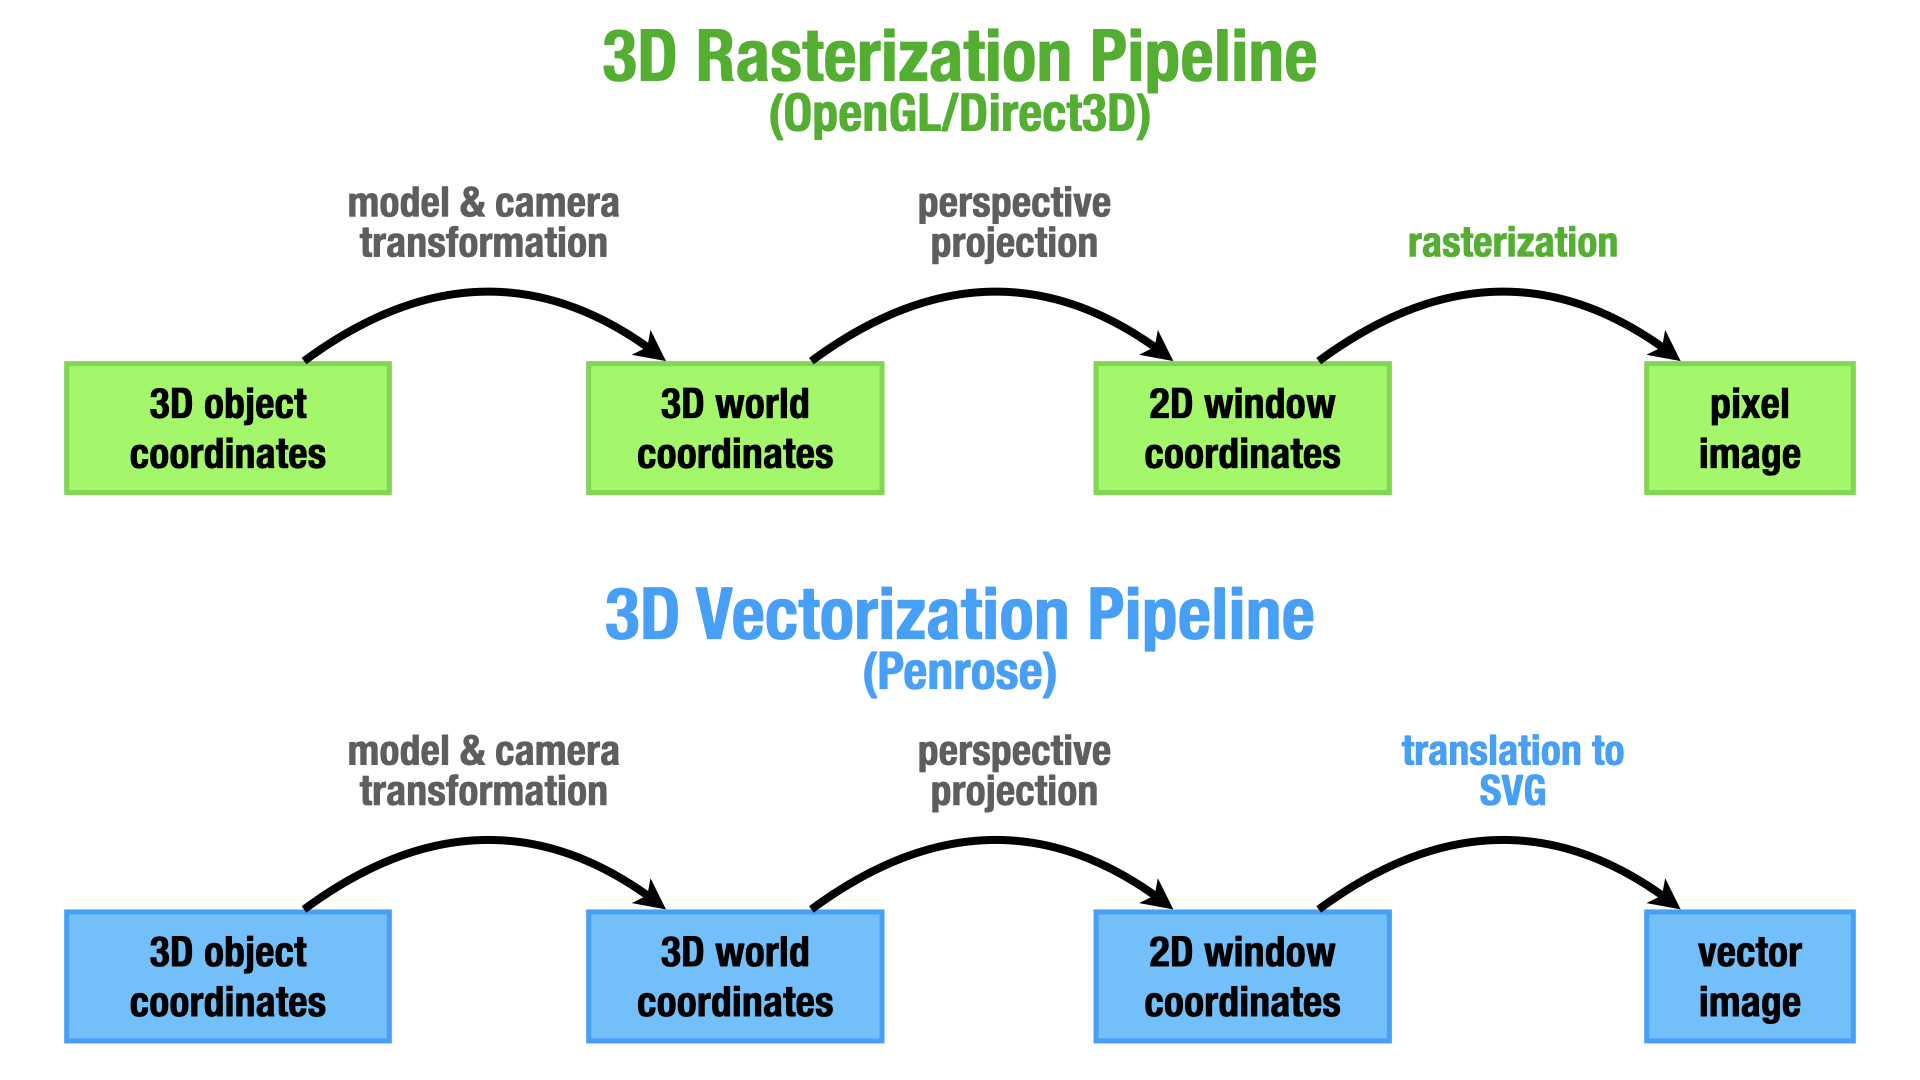
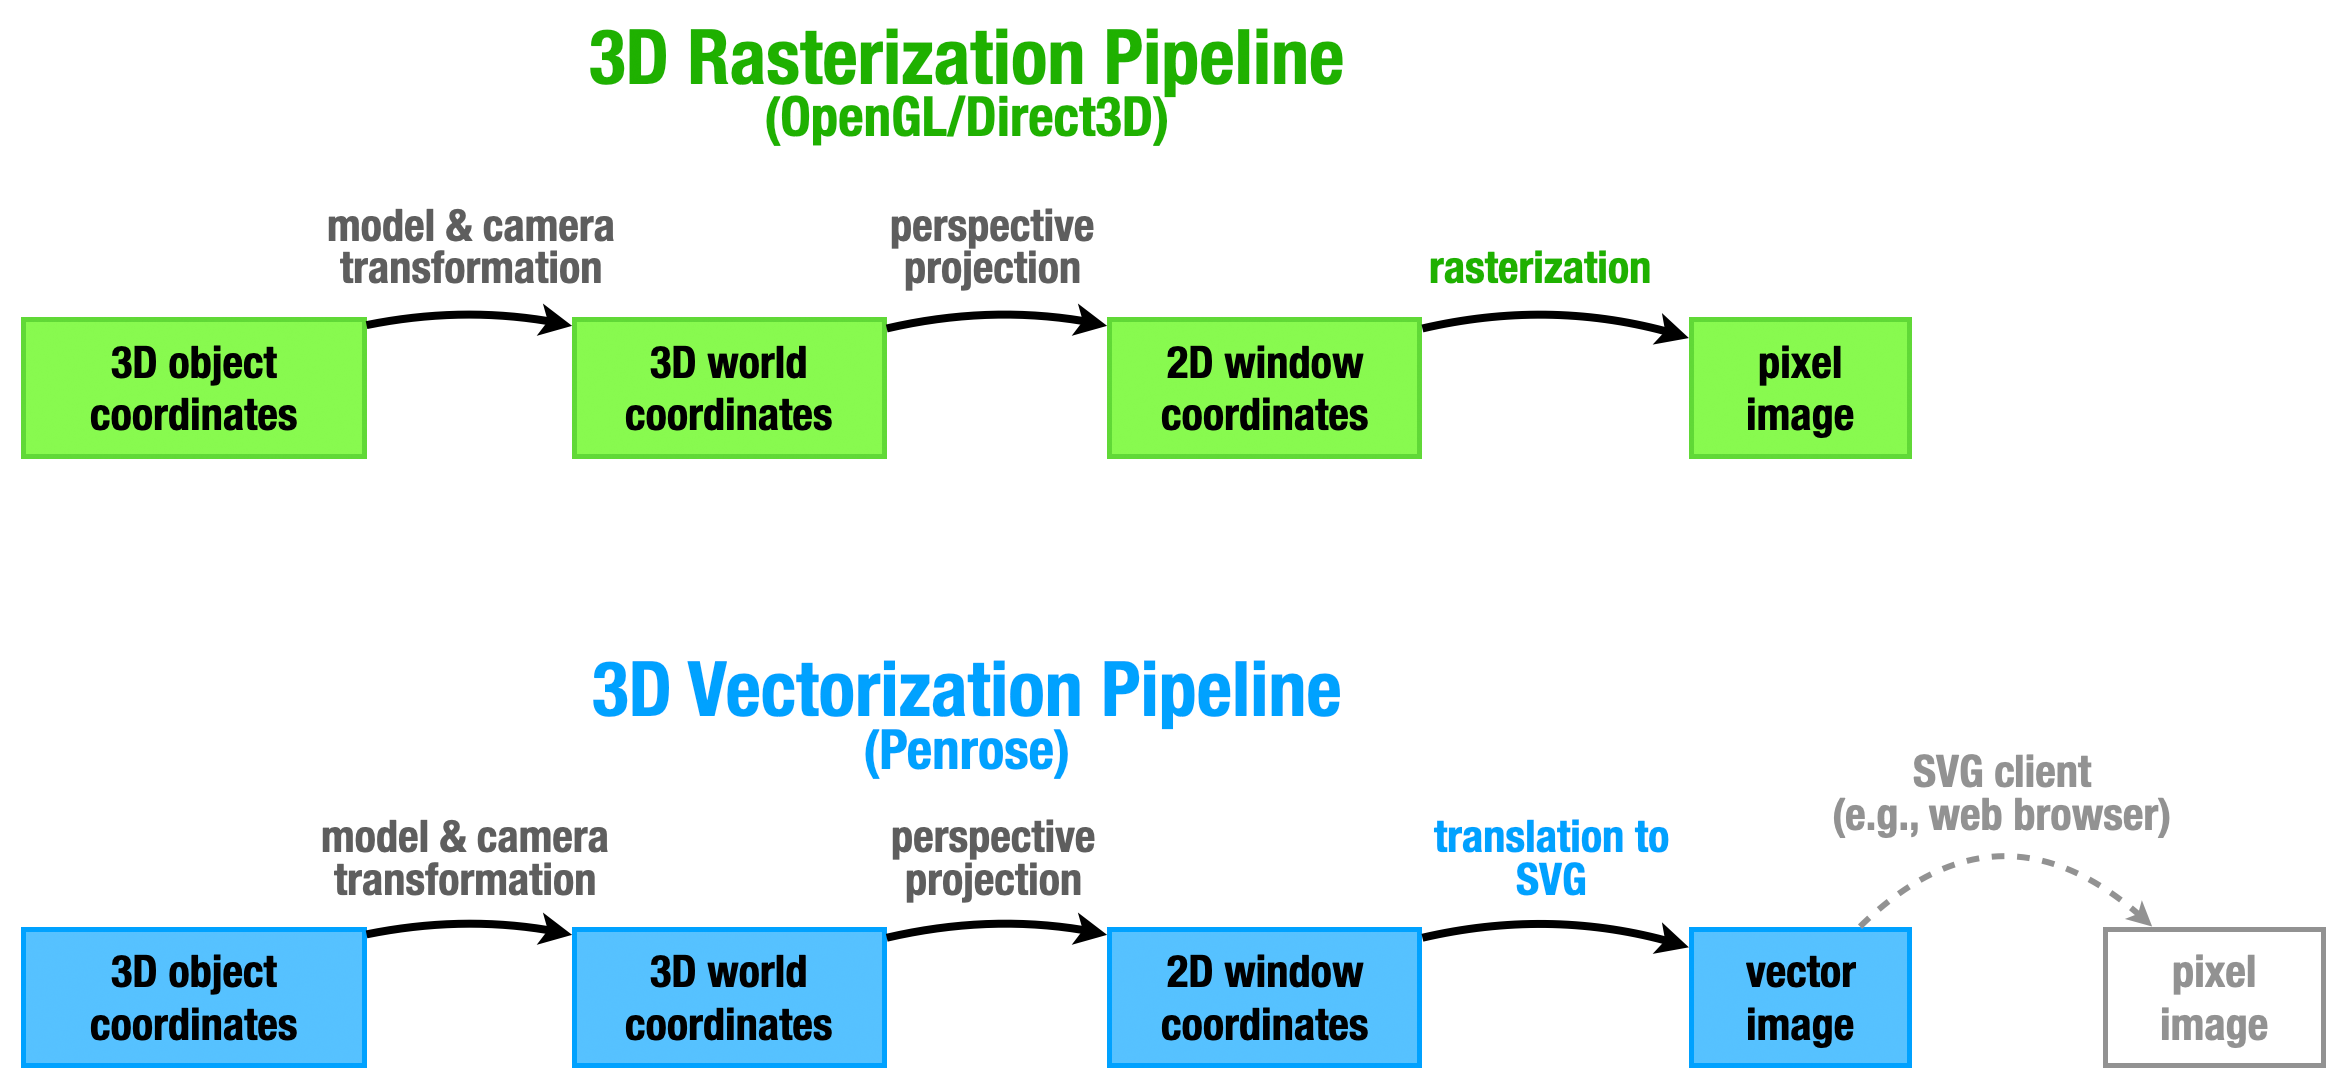
More work on dinoshade & its README

diff --git a/packages/examples/src/dinoshade/README.md b/packages/examples/src/dinoshade/README.md
@@ -2,17 +2,18 @@
 
 ![Shadowy Leapin' Lizards!](dinoshade.png)
 
-This example shows how rich 3D graphics including lighting, shadows, reflections, and perspective projection can be turned into 2D vector diagrams using Penrose, using familiar concepts from standard 3D graphics APIs (such as OpenGL and Direct3D).  The example reimagines the [`dinoshade` OpenGL/GLUT C++ example](http://sgifiles.irixnet.org/sgi/opengl/contrib/mjk/tips/dinoshade.c), originally written by Mark Kilgard at SGI.  If you've never written 3D graphics code before, you may want to start with one of the [many terrific OpenGL tutorials](https://www.reddit.com/r/opengl/comments/5dbzp0/how_to_best_learn_opengl_in_20162017/) available online—while Penrose does a lot of things automatically, you do need to still know how to "think in 3D!"  If you do have prior experience with 3D graphics APIs, you should feel quite at home with this example.
+This exploratory example shows how rich 3D graphics including lighting, shadows, reflections, and perspective projection can be rendered as 2D vector art via Penrose, using familiar concepts from standard 3D graphics APIs (such as OpenGL and Direct3D).  Penrose was not originally built for 3D—but as the system evolves it becomes easier and easier to pull off some very cool and useful techniques!  This particular example reimagines the [`dinoshade` OpenGL/GLUT C++ example](http://sgifiles.irixnet.org/sgi/opengl/contrib/mjk/tips/dinoshade.c), originally written by Mark Kilgard at SGI.  This README is written mainly for folks to cross the bridge from 3D graphics APIs into Penrose/Style—if you've never written 3D graphics code before, you may want to start with one of the [many terrific tutorials](https://www.reddit.com/r/opengl/comments/5dbzp0/how_to_best_learn_opengl_in_20162017/) available online.
 
 ## Overview - The Vectorization Pipeline
 
 ![Rasterization vs. Vectorization Pipeline](pipeline.png)
 
-The output for this example is shown above: a dinosaur standing on a plane, with soft shadows and a blurry reflection; lighting and shadows are determined by a point light source (which from this view is off screen).  Construction of this example follows a pattern similar to the [real time graphics pipeline](https://en.wikipedia.org/wiki/Graphics_pipeline): the camera is defined via modelview and projection matrices, a list of 3D points is used to describe the scene geometry, and the camera matrices are used to transform these 3D points into 2D coordinates on the canvas.  The key difference, as illustrated in the diagram above, is that in the final stage projected primitives (such as triangles and line segments) are translated into vector graphics primitives, rather than rasterized to final pixel values.  In particular, they are translated into a [standard vector graphics (SVG) file](https://en.wikipedia.org/wiki/SVG), which is a human-readable file format for describing 2D graphics.  An SVG file can then be displayed by a variety of applications such as web browsers (Chrome, Safari, etc.), or specialized vector graphics editors (Inkscape, Adobe Illustrator, etc.).  These programs in effect complete the final stage of image generation, by rasterizing 2D shapes in the SVG file to pixel values that can be displayed by a hardware device.  However, deferring this final rasterization stage has a variety of benefits:
+The output for this example is shown at top: a dinosaur standing on a plane, with soft shadows and a blurry reflection; lighting and shadows are determined by a point light source (which from this view is off screen).  Construction of this example follows a pattern similar to the [real time graphics pipeline](https://en.wikipedia.org/wiki/Graphics_pipeline): the camera is defined via modelview and projection matrices, a list of 3D points is used to describe the scene geometry, and the camera matrices are used to transform these 3D points into 2D coordinates on the canvas.  The key difference, as illustrated in the diagram above, is that in the final stage projected primitives (such as triangles and line segments) are translated into vector graphics primitives, rather than rasterized to final pixel values.  In particular, they are translated into a [standard vector graphics (SVG) file](https://en.wikipedia.org/wiki/SVG), which is a human-readable file format for describing 2D graphics.  An SVG file can then be displayed by a variety of applications such as web browsers (Chrome, Safari, etc.), or specialized vector graphics editors (Inkscape, Adobe Illustrator, etc.).  These programs in effect complete the final stage of image generation, by rasterizing 2D shapes in the SVG file to pixel values that can be displayed by a hardware device.  However, deferring this final rasterization stage has a variety of benefits:
 
 - **Retargetability.**  Since the output of the 3D vectorization pipeline does not assume any definite size for the final rasterized image, graphics can be re-used on a variety of different devices, or in different contexts (e.g., full-screen vs. embedded in a document) without losing fidelity.  In other words, the output representation is "resolution-independent."
 - **File Size.** In many cases, a vectorized image is much smaller than a rasterized version, since the former stores a more minimal specification of the image (e.g., just the three corner locations of a triangles, rather than the many thousands of pixel values needed to fill in the same triangle).  E.g., the SVG and PNG versions of the `dinoshade` image above differ in file size by about 5x.
 - **Editability.** Unlike raster images, which can be edited only at the level of individual pixels, vectorized 3D graphics easily admit higher-level semantic edits such as "change the color of the dinosaur from green to blue" or "make the wireframe thinner" (or remove it altogether).  Moreover, such alterations can be made programmatically and automatically without needing access to the original runtime environment (e.g., OpenGL or Direct3D).
+- **Rich Functionality.** A lot of functionality that's hard to pull off in standard 3D APIs (like high-quality line drawing, dashed lines, and image-space filtering) are already built in to SVG/CSS, and can often be triggered by one or two simple commands (like the CSS blur used here to achieve glossy reflections).
 
 ## The Dinoshade Example
 
@@ -106,7 +107,11 @@ global {
 }
 ```
 
-Notice here that we often only need to declare _what needs to be drawn_ rather than _how to draw it_.  For instance, to draw the text we need only say what text we want, what font/color we want, and where on the canvas it should go.  We don't need to say _when_ the text gets drawn (i.e., we don't need to think about execution order, as in the usual [imperative programming](https://en.wikipedia.org/wiki/Imperative_programming) model of OpenGL/Direct3D), and generally avoid a lot of the crufty function calls needed to [draw text](https://users.cs.jmu.edu/bernstdh/web/common/lectures/summary_opengl-text.php) in a traditional 3D graphics API.  We just need to give the bare minimum specification.
+At this point our scene looks like this:
+
+![Ground plane and label text](global-data.png)
+
+Notice that unlike a traditional 3D graphics API, we only had to declare _what needs to be drawn_; we did not have to spell out the procedural steps of _how to draw it_.  For instance, to draw the text we simply stated what string we want to use, what font/color we want, and where on the canvas it should go.  We didn't need to say _when_ the text gets drawn (i.e., we don't need to think about execution order, as in the usual [imperative programming](https://en.wikipedia.org/wiki/Imperative_programming) model of OpenGL/Direct3D), and avoided the arcane sequence of function calls needed to [draw text](https://users.cs.jmu.edu/bernstdh/web/common/lectures/summary_opengl-text.php) in OpenGL.  Intsead, we just gave the bare minimum information needed to specify the label.
 
 The most important line in the snippet above is the one that transforms a list of 3D points into a list of 2D points that can be used to draw 2D shapes.  In general, the pattern we'll use is
 
@@ -160,7 +165,9 @@ forall Dinosaur G {
 
 > **Transformation Order.** An important comment here about transformation order: APIs like OpenGL follow a "last transformation first" rule.  For instance, if we write `glTranslate(a,b,c); glRotate(theta,1,0,0);` we get a rotation by `theta` around the x-axis, followed by a translation by the vector (`a`,`b`,`c`).  You'll notice that in our Style code we instead use a special keyword `then`, which composes transformations in the same order one would expect from natural language.  For instance, if I say _"I turned around and then walked out the door,"_ the order of operations is unambiguous: first a rotation, then a translation.  Likewise, the expression `A then B` describes a transformation first by the matrix `A`, then by the matrix `B`.  Of course, the Style language also permits ordinary matrix multiplication—e.g., the same transformation could be applied using the matrix `B*A`, since then any matrix-vector multiply `B*A*x` will first apply `A`, then apply `B`.
 
-Once we have the projected 2D coordinates, we need to actually drawn the final polygons.  Unlike OpenGL, we do _not_ need to tessellate these polygons into triangles: Style/Penrose (and SVG) can directly handle `n`-gons with any number of sides.  For each polygon we do a simple lighting calculation, and also use the orientation of the projected polygon to determine back face culling, or really "back face fading": if the orientation is positive, we draw the polygon as usual; if the orientation is negative, we draw it using an alpha value of 0.2.  This way we get a nice effect where the edges of the back-facing polygons are slightly visible through the front-facing polygons, giving a nice sense of volume:
+![Comparison of no culling, full culling, and partial culling](culling.png)
+
+Once we have the projected 2D coordinates, we need to actually draw the final polygons.  Unlike OpenGL, we do _not_ need to tessellate these polygons into triangles: Style/Penrose (and SVG) can directly handle `n`-gons with any number of sides.  For each polygon we do a simple lighting calculation, and also use the orientation of the projected polygon to determine backface culling, or really "back face fading": if the orientation is positive, we draw the polygon as usual; if the orientation is negative, we draw it using an alpha value of 0.2.  This way we get a nice effect where the edges of the back-facing polygons are slightly visible through the front-facing polygons, giving a nice sense of volume (see example images above).  Here we perform an explicit calculation inline, but in future language versions it might be nice to provide a convenience attribute `cullBackface: true|false`:
 
 ```haskell
    -- compute the color for the first polygon
@@ -226,6 +233,10 @@ where R := Reflection(G) {
 }
 ```
 
+With the reflection added, our scene now looks like this:
+
+![Dinosaur with reflection](reflection.png)
+
 Similarly, the shadow is drawn by geometrically projecting the vertices of the mesh from the light source to the ground plane.
 
 ```haskell
@@ -269,5 +280,11 @@ where S := Shadow(G) {
 }
 ```
 
-TODO: talk about depth sorting
+Showing just the shadow (and not the reflection), our scene now looks like this:
+
+![Dinosaur with shadow](shadow.png)
+
+The full scene, with both shadows and reflections, is shown at the very top.
+
+> **Depth Sorting.** At present, Style provides no mechanism for depth buffering or sorting.  Part of the limitation is a fundamental limitation of essentially all modern vector graphics APIs ([SVG](https://en.wikipedia.org/wiki/SVG), [Canvas](https://en.wikipedia.org/wiki/Canvas_element), [PDF](https://en.wikipedia.org/wiki/PDF), etc.).  Since these formats were not designed with 3D in mind, primitives have no notion of variable depth, nor is there any built-in mechanism for per-fragment depth testing.  In many situations, however (e.g., no intersecting primitives and no cyclic depth orderings) one can still obtain high-quality results by applying [Painter's algorithm](https://en.wikipedia.org/wiki/Painter%27s_algorithm) to determine a per-primitive ordering.  A secondary challenge is that, at present, the ordering of primitives in a Style program is determined at compile time (via the order of rules in the Style program, and any use of the `layer` keyword).  Hence, depths computed via camera projection cannot currently be used to re-order primitives.  Some possibilities for future improvement might be to use mechanisms like [`z-index`](https://developer.mozilla.org/en-US/docs/Web/CSS/z-index), or to use [CSS 3D transforms](https://www.w3schools.com/css/css3_3dtransforms.asp), though a path that is well-supported through SVG and/or CSS in modern browsers is not entirely clear.  Another possibility is to augment the Style language to enable dynamic layering via computed values ([issue #768](https://github.com/penrose/penrose/issues/768)).  If you have opinions, knowledge, or feedback about this question, please feel free to get in touch!
 
